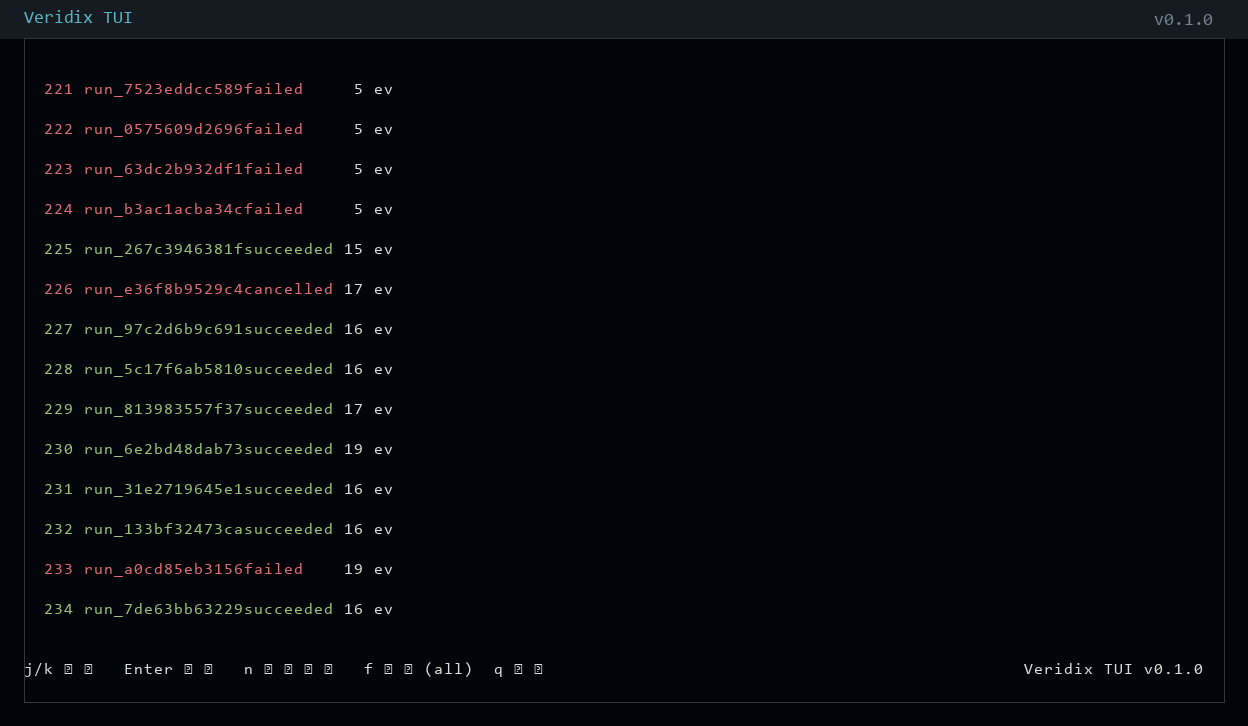
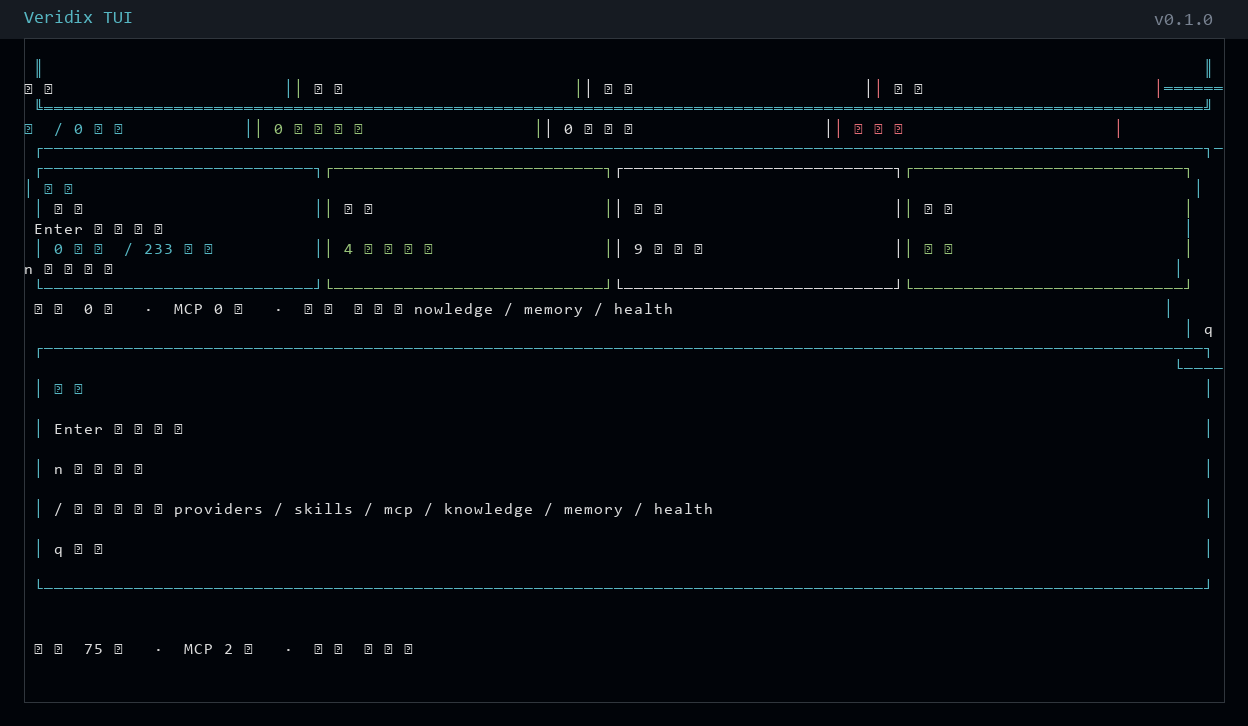
Add TUI home screen and CLI screenshot, refresh settings screenshot

diff --git a/apps/tui/src/index.tsx b/apps/tui/src/index.tsx
@@ -683,6 +683,108 @@ function Footer({ detail, filter }: { detail: boolean; filter: string }) {
   );
 }
 
+function HomeStat({
+  label,
+  value,
+  tone,
+}: {
+  label: string;
+  value: string;
+  tone: string;
+}) {
+  return (
+    <Box
+      width={29}
+      borderStyle="single"
+      borderColor={tone}
+      flexDirection="column"
+      paddingX={1}
+    >
+      <Text dimColor>{label}</Text>
+      <Text bold color={tone}>
+        {value}
+      </Text>
+    </Box>
+  );
+}
+
+function HomeScreen({
+  diagnostics,
+  assets,
+  runs,
+}: {
+  diagnostics: Record<string, unknown> | null;
+  assets: Record<string, unknown> | null;
+  runs: RunState[];
+}) {
+  const providers =
+    (diagnostics?.providers as Array<Record<string, unknown>> | undefined) ?? [];
+  const components =
+    (diagnostics?.components as
+      | Record<string, Record<string, unknown>>
+      | undefined) ?? {};
+  const storage = (diagnostics?.storage as Record<string, unknown> | undefined) ?? {};
+  const toolHealth =
+    String(
+      (diagnostics?.tool_environment as Record<string, unknown> | undefined)
+        ?.health ?? "missing",
+    ) === "ok";
+  const activeCount = runs.filter((run) =>
+    ["requested", "running", "claimed", "paused"].includes(run.status),
+  ).length;
+  const okCount = Object.values(components).filter(
+    (component) => component.status === "ok",
+  ).length;
+  const skills = (assets?.skills as unknown[] | undefined)?.length ?? 0;
+  const mcp = (assets?.mcp as unknown[] | undefined)?.length ?? 0;
+
+  return (
+    <Box flexDirection="column" width="100%">
+      <Box
+        borderStyle="double"
+        borderColor="cyan"
+        flexDirection="column"
+        alignItems="center"
+        paddingX={2}
+        paddingY={1}
+      >
+        <Text bold color="cyan">
+          VERIDIX
+        </Text>
+        <Text dimColor>授权安全测试与漏洞验证 Agent</Text>
+      </Box>
+      <Box marginTop={1} flexDirection="row">
+        <HomeStat label="运行" value={`${activeCount} 活动 / ${runs.length} 总计`} tone="cyan" />
+        <HomeStat label="模型" value={`${providers.length} 个供应商`} tone="green" />
+        <HomeStat label="组件" value={`${okCount} 项健康`} tone="yellow" />
+        <HomeStat label="工具" value={toolHealth ? "可用" : "未就绪"} tone={toolHealth ? "green" : "red"} />
+      </Box>
+      <Box marginTop={1} borderStyle="single" borderColor="cyan" flexDirection="column" paddingX={1}>
+        <Text bold color="cyan">
+          入口
+        </Text>
+        <Text>
+          <Text bold>Enter</Text> 运行列表
+        </Text>
+        <Text>
+          <Text bold>n</Text> 新建任务
+        </Text>
+        <Text>
+          <Text bold>/</Text> 斜杠命令：providers / skills / mcp / knowledge / memory / health
+        </Text>
+        <Text>
+          <Text bold>q</Text> 退出
+        </Text>
+      </Box>
+      <Box marginTop={1}>
+        <Text dimColor>
+          技能 {skills} 个  ·  MCP {mcp} 个  ·  存储 {storage.available ? "已就绪" : "未上报"}
+        </Text>
+      </Box>
+    </Box>
+  );
+}
+
 function ResourceView({
   view,
   diagnostics,
@@ -1174,6 +1276,7 @@ export function App() {
   const [approvals, setApprovals] = useState<ApprovalRequest[]>([]);
   const [exportedPath, setExportedPath] = useState<string | null>(null);
   const [view, setView] = useState<View>("events");
+  const [home, setHome] = useState(true);
   const [error, setError] = useState<string | null>(null);
   const [diagnostics, setDiagnostics] = useState<Record<string, unknown> | null>(
     null,
@@ -2085,6 +2188,21 @@ export function App() {
   };
 
   useInput((input, key) => {
+    if (home) {
+      if (input === "q" && !key.ctrl) {
+        exit();
+        return;
+      }
+      if (input === "/") {
+        setHome(false);
+        setCommandMode(true);
+        setCommandDraft("/");
+        setHistoryIndex(-1);
+        return;
+      }
+      setHome(false);
+      return;
+    }
     if (help) {
       if (input === "q" || input === "?") {
         setHelp(false);
@@ -2360,6 +2478,18 @@ export function App() {
   const activeCount = runs.filter((run) =>
     ["requested", "running", "claimed", "paused"].includes(run.status),
   ).length;
+
+  if (home) {
+    return (
+      <Box flexDirection="column" padding={1} width="100%">
+        <HomeScreen
+          diagnostics={diagnostics}
+          assets={assets}
+          runs={runs}
+        />
+      </Box>
+    );
+  }
 
   return (
     <Box flexDirection="column" padding={1} width="100%">

diff --git a/apps/tui/test/long-session.test.tsx b/apps/tui/test/long-session.test.tsx
@@ -246,6 +246,8 @@ describe("TUI long interaction session", () => {
     const instance = render(<App />);
     instances.push(instance);
     await sleep(350);
+    instance.stdin.write("\r");
+    await sleep(100);
 
     let frame = instance.lastFrame() ?? "";
     expect(frame, JSON.stringify(frame)).toContain("run_long_1");

diff --git a/apps/tui/test/interactions.test.tsx b/apps/tui/test/interactions.test.tsx
@@ -23,6 +23,8 @@ describe("TUI interactions", () => {
     const instance = render(<App />);
     instances.push(instance);
     await sleep(180);
+    instance.stdin.write("\r");
+    await sleep(100);
 
     const frame = instance.lastFrame() ?? "";
     expect(frame).toContain("VERIDIX AGENT");

diff --git a/README.md b/README.md
@@ -188,9 +188,7 @@ flowchart LR
 
 ![诊断与设置](screenshots/web-settings.png)
 
-TUI 主界面见 README 开头。CLI 截图后续补充：
-
-- `screenshots/cli-help.png`：CLI 帮助与常用命令输出
+![CLI 帮助](screenshots/cli-help.png)
 
 ## 文档
 
